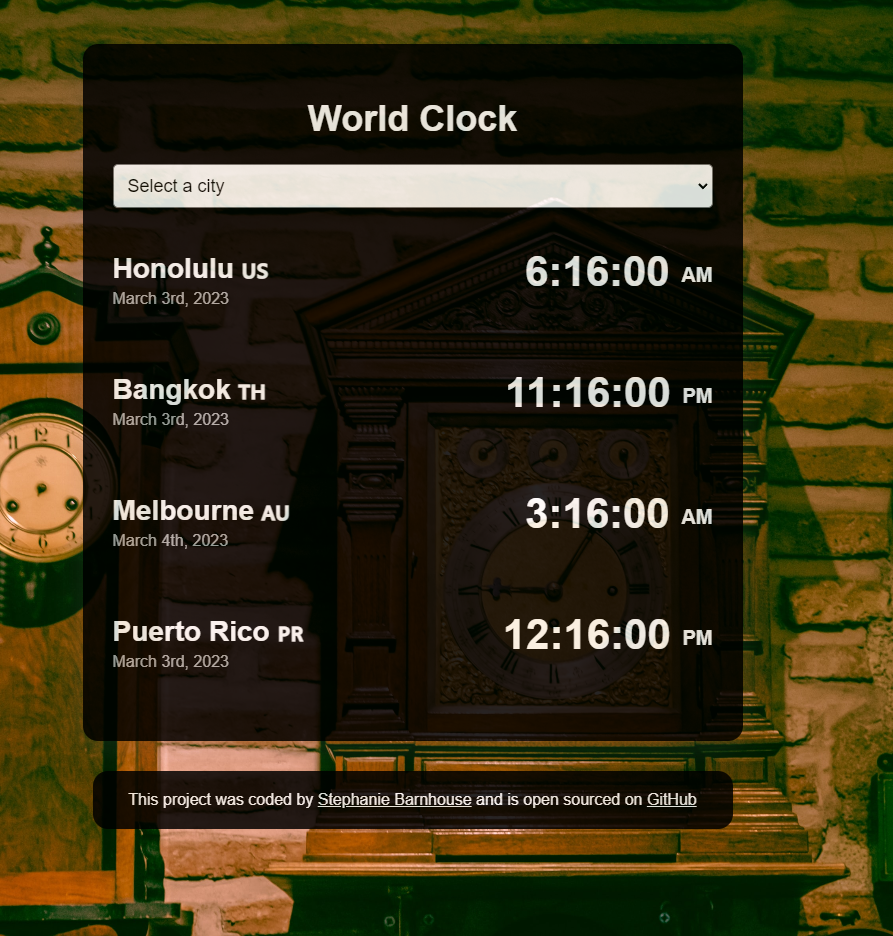
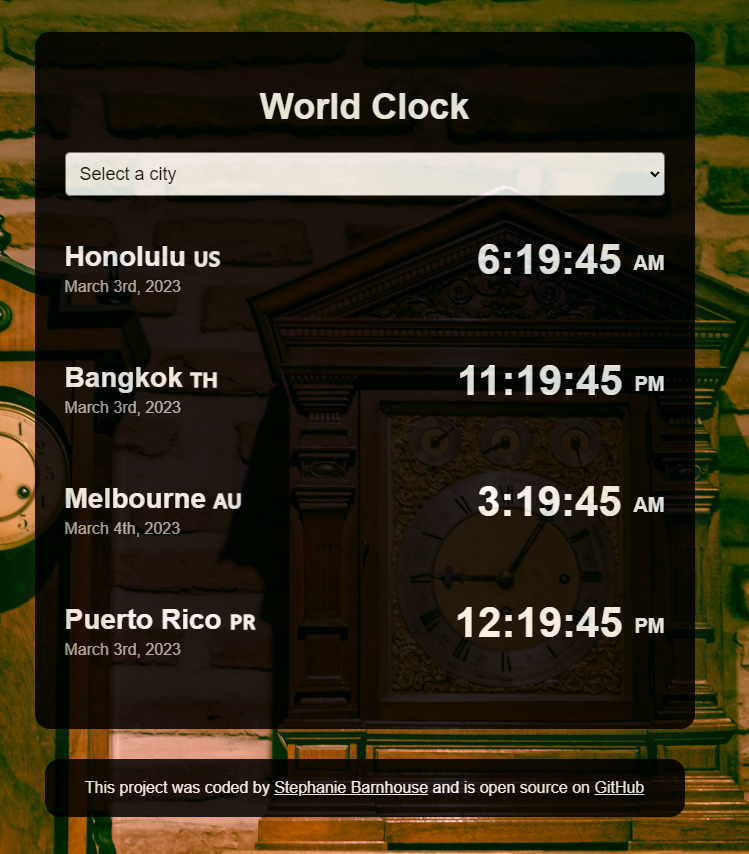
Fixing spelling errors

diff --git a/index.html b/index.html
@@ -62,7 +62,7 @@
         target="_blank"
         >Stephanie Barnhouse</a
       >
-      and is open sourced on
+      and is open source on
       <a href="https://github.com/snbarnhouse/world-clock" target="_blank">GitHub</a>
     </footer>
     <script src="javascript/index.js"></script>

diff --git a/css/style.css b/css/style.css
@@ -87,8 +87,3 @@ footer a {
  color: white;
 }
 
-@media (max-width: 700px) {
-  .container {
-    margin: 20px auto;
-  }
-}

diff --git a/README.md b/README.md
@@ -14,4 +14,5 @@ GitHub Repository: https://github.com/snbarnhouse/world-clock
 
 Deployed:  https://world-clock-mjs.netlify.app/
 
-![World Clock](https://user-images.githubusercontent.com/77131387/222771893-e462c6ad-64b8-4a0d-a2c7-534ecc4499e6.png)
+
+![World Clock](https://user-images.githubusercontent.com/77131387/222772856-32c14b5d-7155-400f-963b-aedb9e0b00d6.png)
